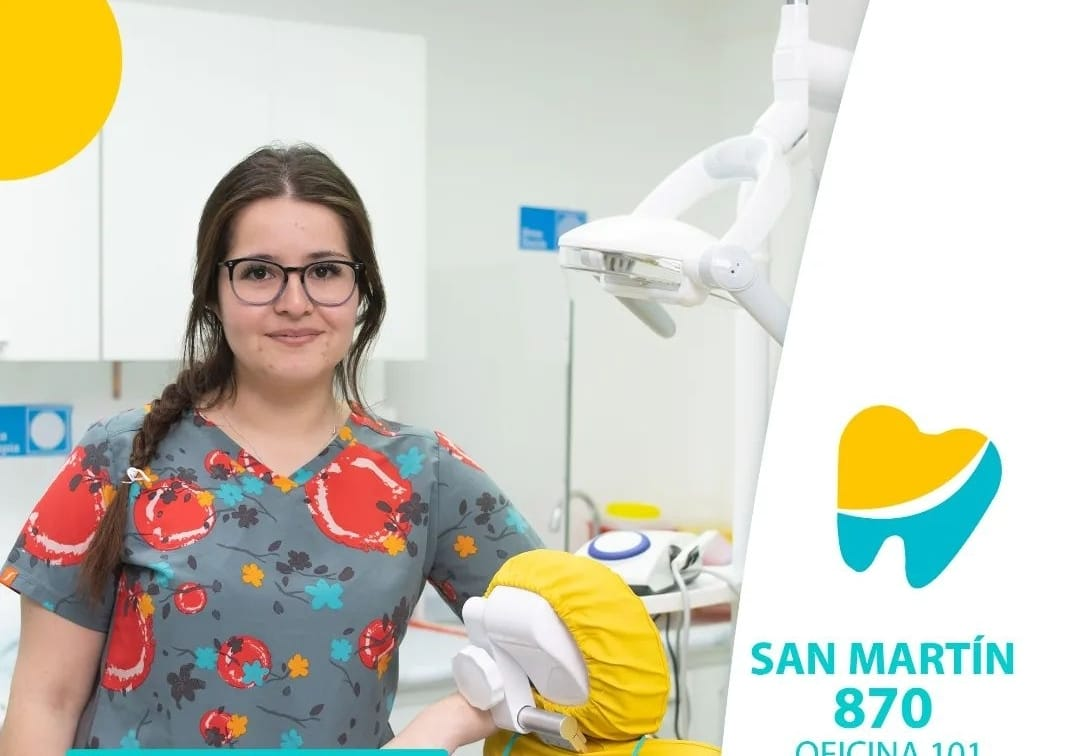
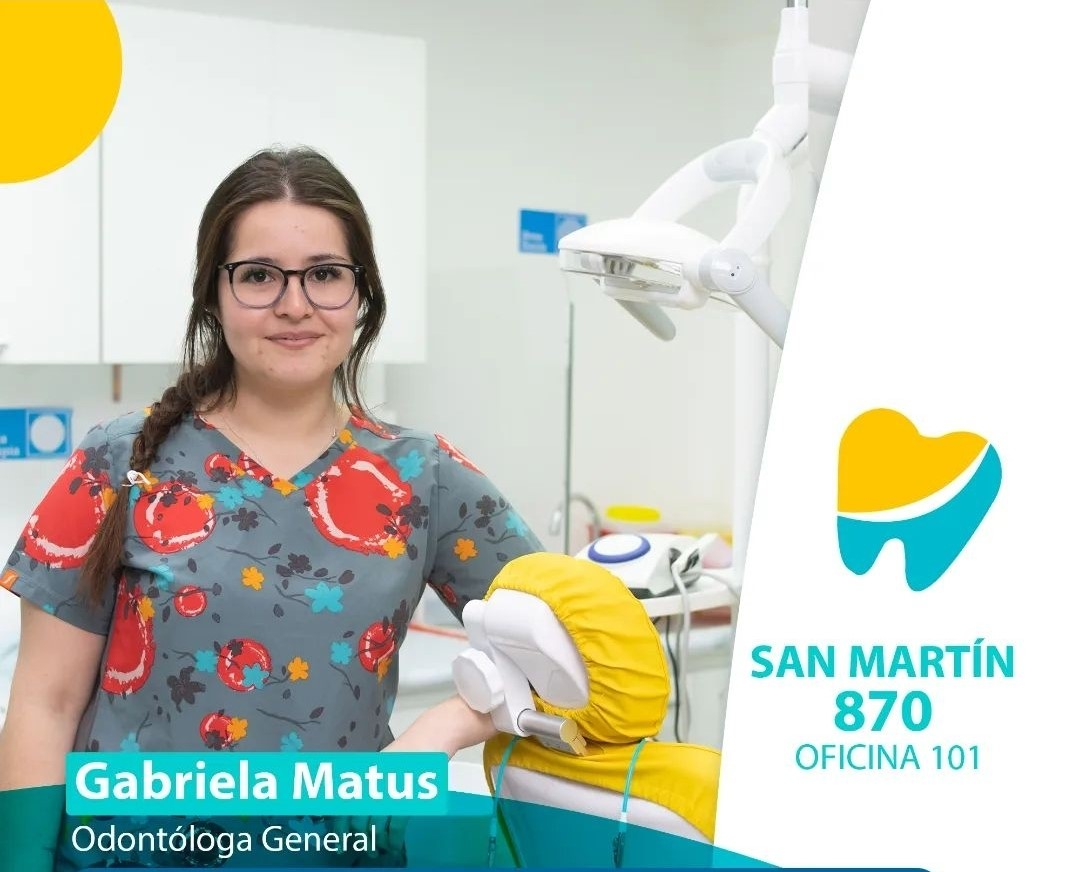
Cambio de imagenes en las card de profesionales

diff --git a/index.html b/index.html
@@ -93,13 +93,16 @@
           </div>
         </div>
       </section>
+      <section class="seccion flex-container">
+         <p>Además de cuidar tu salud bucal, nos preocupamos de dar un servicio integral para ayudarte a mejorar tu calidad de vida, partiendo por tus dientes.</p>
+      </section>
       <section class="card-title seccion" id="profesionales">
         <h1>Nuestros Profesionales</h1>
         <div class="card-container grid-container">
           <article class="card">
             <div class="card-content">
               <h2 class="card-title">Camilo Espinoza</h2>
-              <img class="card-image" src="./images/drcamilo-2.jpg" alt="Imagen de Dr Camilo">
+              <img class="card-image" src="./images/drcamilo.jpg" alt="Imagen de Dr Camilo">
               <p class="card-text">Dental Oral Cirujano en la ciudad de Concepcion, Chile.</p>
             </div>
           </article>
@@ -113,7 +116,7 @@
           <article class="card">
             <div class="card-content">
               <h2 class="card-title">Gabriela Matus</h2>
-              <img class="card-image" src="./images/drgabriela-2.jpg" alt="Imagen de Dra Gabriela">
+              <img class="card-image" src="./images/drgabriela.jpg" alt="Imagen de Dra Gabriela">
               <p class="card-text">
                 Dental Oral Implantologista en la ciudad de Concepcion, Chile.</p>
             </div>
